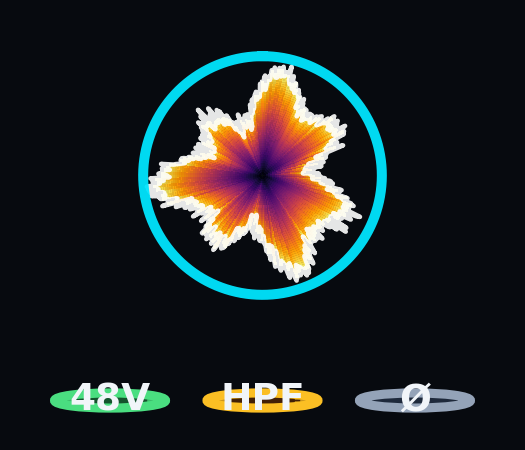
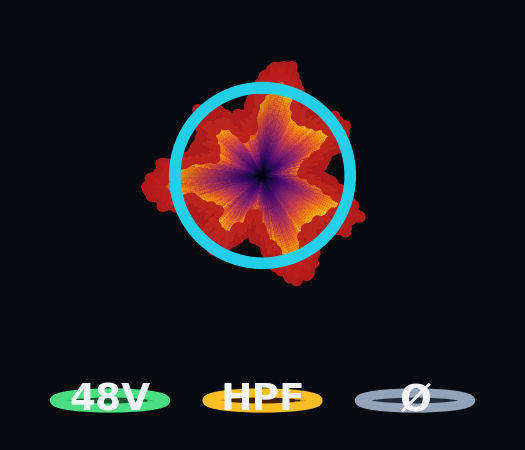
Mic pre approval: red outer rim + annulus; Gate tighter (closes off red)
Made-with: Cursor

Changed region(s): [[0.2438, 0.0933, 0.7619, 0.6844]]

diff --git a/visuals/generate_mic_pre_cell_approval.py b/visuals/generate_mic_pre_cell_approval.py
@@ -53,15 +53,27 @@ def main() -> None:
         Z,
         cmap="inferno",
         shading="auto",
-        alpha=0.92,
+        alpha=0.88,
     )
     pcm.set_clim(0, 1)
-    ax.plot(theta_c, r_c, color="white", linewidth=1.1, alpha=0.9)
 
-    # GATE — only perfect circle on the plot
-    gate_r = 0.68
+    # Mic pre "closing down": RED in the annulus between Gate (inside) and outer polar edge.
+    # Outer rim of the polarity graph = red (was white) — shows energy to tame.
+    gate_r = 0.50  # tighter = more "closed down" vs typical blob max ~0.9x
+    ax.fill_between(
+        theta,
+        gate_r,
+        r,
+        where=(r > gate_r),
+        color="#dc2626",
+        alpha=0.62,
+        interpolate=True,
+    )
+    ax.plot(theta_c, r_c, color="#b91c1c", linewidth=2.8, alpha=0.95, solid_capstyle="round")
+
+    # GATE — perfect circle; smaller so it visually closes off / contains the red ring
     tg = np.linspace(0, 2 * np.pi, 720)
-    ax.plot(tg, np.full_like(tg, gate_r), color="#00e5ff", linewidth=2.4, alpha=0.95)
+    ax.plot(tg, np.full_like(tg, gate_r), color="#22d3ee", linewidth=2.8, alpha=0.98)
 
     ax.set_ylim(0, 1.0)
     ax.set_yticklabels([])
